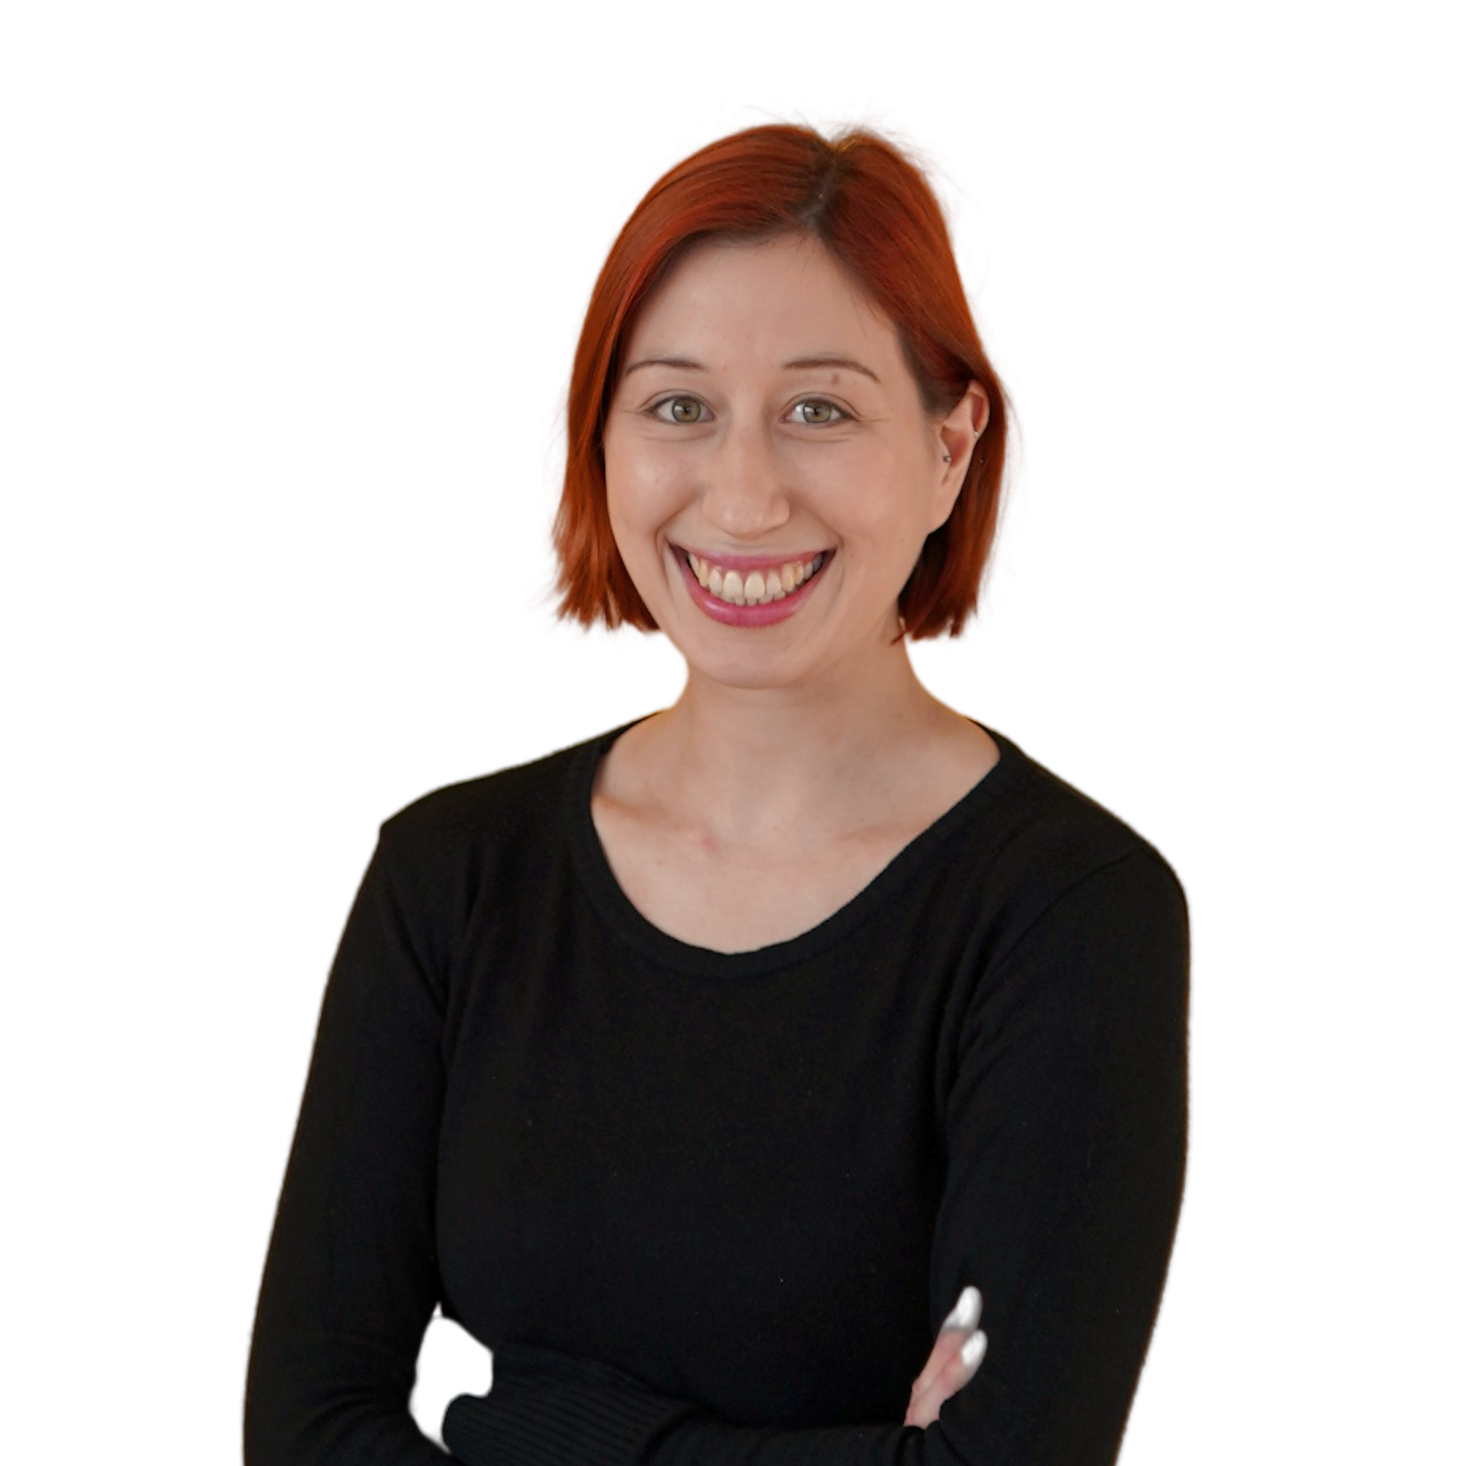
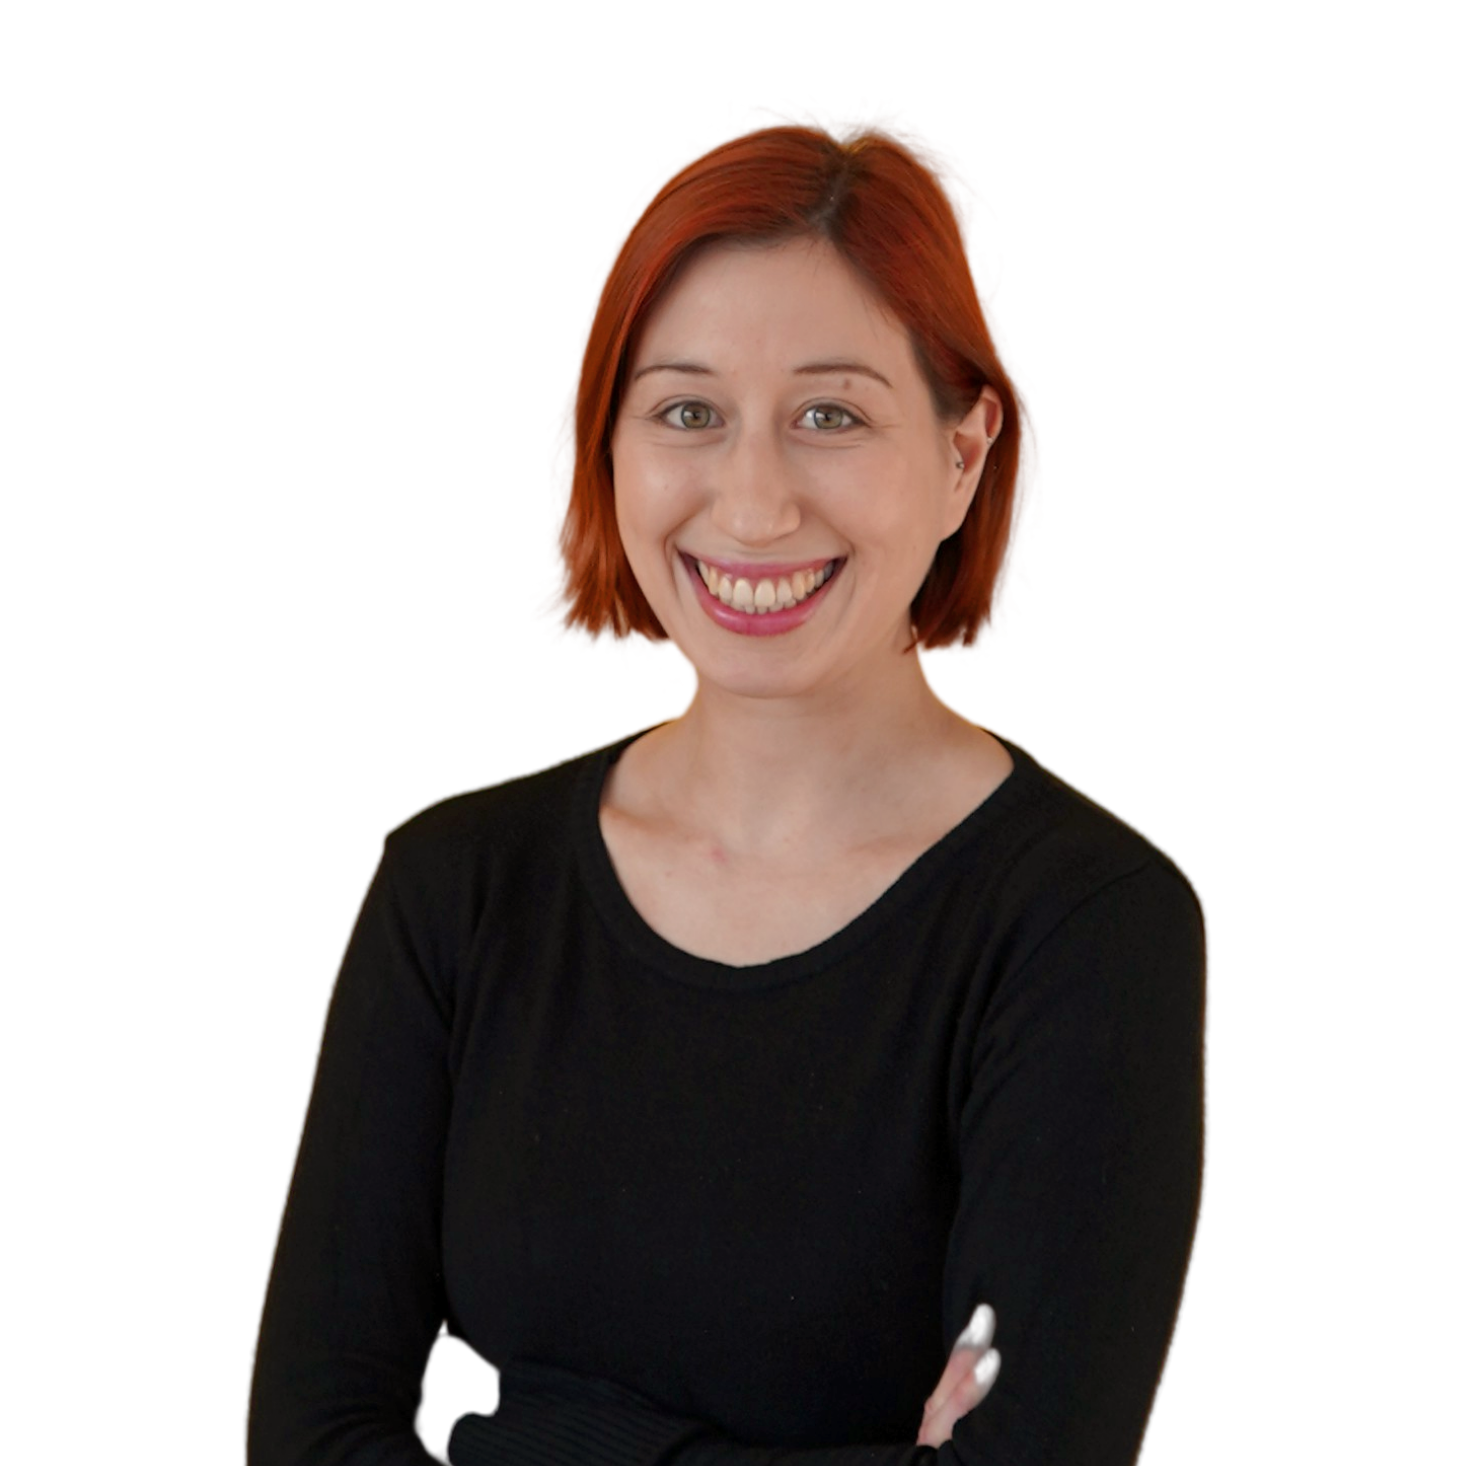
Change layout of profile page / responsive for all devices

diff --git a/css/style.css b/css/style.css
@@ -61,34 +61,100 @@ body {
     font-weight: 400;
     font-size: 1.8rem; }
 
+.profile-page-body {
+  margin: 0;
+  min-height: 100vh;
+  background-color: orange; }
+
 .profile {
   background-color: #d9ecef;
   display: flex;
   flex-direction: column;
-  justify-content: center;
-  padding: 2rem 4rem;
-  margin-top: 10rem; }
-  .profile__image {
+  min-height: 100vh; }
+  .profile__wrapper {
+    flex: 1 1; }
+  .profile__header {
+    margin-top: 20px;
     display: flex;
-    justify-content: center; }
+    flex-direction: row;
+    justify-content: flex-end; }
+    .profile__header a {
+      text-decoration: none;
+      color: #f18613;
+      font-weight: 400;
+      font-size: 1.8rem;
+      margin-right: 2rem; }
+  .profile__content {
+    position: absolute;
+    left: 50%;
+    top: 45%;
+    transform: translate(-50%, -50%);
+    display: flex;
+    justify-content: space-evenly;
+    align-items: center;
+    border-radius: 10px;
+    color: rgba(255, 255, 255, 0.8);
+    height: 60vh;
+    width: 60vw; }
+  .profile__picture {
+    justify-self: center;
+    margin-right: 20px; }
   .profile__img {
-    width: 15rem;
     border-radius: 50%;
-    display: block;
-    background-color: #fff; }
+    height: 220px;
+    width: 220px;
+    box-shadow: 0 0.2rem 4rem black; }
   .profile__description {
+    width: 400px;
+    margin-left: 20px;
+    font-size: 0.9rem;
+    line-height: 1.5rem;
+    text-align: left; }
+  .profile__footer {
+    color: #a3b18a;
+    font-size: 20px;
+    position: relative;
+    bottom: 0;
+    width: 100%;
+    padding-bottom: 5px; }
+  .profile__footer--links {
+    display: flex;
+    justify-content: center;
+    font-size: 3.5rem; }
+    .profile__footer--links a {
+      margin: 0.5rem; }
+
+@media only screen and (max-width: 770px) {
+  .profile__header {
+    margin-right: 0;
+    position: relative;
+    right: auto;
+    align-content: center; } }
+
+@media only screen and (max-width: 770px) {
+  .profile__header--link {
+    margin-left: 15px;
+    margin-right: 15px; } }
+
+@media only screen and (max-width: 770px) {
+  .profile__content {
     display: flex;
     flex-direction: column;
-    align-items: center;
-    padding: 2rem 10rem; }
-  .profile__links {
-    margin-top: 2rem;
-    font-size: 3.5rem;
-    display: flex;
-    flex-direction: row; }
+    top: 50%; } }
 
-x .skills {
-  background-color: orange; }
+@media only screen and (max-width: 770px) {
+  .profile__picture {
+    margin-right: 0; } }
+
+@media only screen and (max-width: 770px) {
+  .profile__img {
+    height: 180px;
+    width: 180px; } }
+
+@media only screen and (max-width: 770px) {
+  .profile__description {
+    font-size: 0.8rem;
+    width: 80vw; } }
 
 .footer {
   background-color: #d9ecef;

diff --git a/sass/_profile.scss b/sass/_profile.scss
@@ -1,43 +1,132 @@
+.profile-page-body {
+  margin: 0;
+  min-height: 100vh;
+  background-color: orange;
+}
+
 .profile {
   background-color: $color-primary;
-
   display: flex;
   flex-direction: column;
-  justify-content: center;
-  padding: 2rem 4rem;
-  margin-top: 10rem;
+  min-height: 100vh;
 
-  // display: grid;
-  // justify-content: center;
-  // align-items: center;
+  &__wrapper {
+    flex: 1 1;
+  }
 
-  &__image {
+  &__header {
+    margin-top: 20px;
+    display: flex;
+    flex-direction: row;
+    justify-content: flex-end;
+
+    a {
+      text-decoration: none;
+      color: $color-secondary;
+      font-weight: 400;
+      font-size: 1.8rem;
+      margin-right: 2rem;
+    }
+  }
+
+  &__content {
+    position: absolute;
+    left: 50%;
+    top: 45%;
+
+    transform: translate(-50%, -50%);
+
     display: flex;
 
-    justify-content: center;
+    justify-content: space-evenly;
+
+    align-items: center;
+    border-radius: 10px;
+    color: hsla(0, 0%, 100%, 0.8);
+    height: 60vh;
+    width: 60vw;
+  }
+
+  &__picture {
+    justify-self: center;
+    margin-right: 20px;
   }
 
   &__img {
-    width: 15rem;
     border-radius: 50%;
-    display: block;
-    background-color: #fff;
+    height: 220px;
+    width: 220px;
+    box-shadow: 0 0.2rem 4rem black;
   }
 
   &__description {
-    display: flex;
-    flex-direction: column;
-    align-items: center;
-    padding: 2rem 10rem;
+    width: 400px;
+    margin-left: 20px;
+    font-size: 0.9rem;
+    line-height: 1.5rem;
+    text-align: left;
   }
 
-  &__links {
-    margin-top: 2rem;
-    font-size: 3.5rem;
+  &__footer {
+    color: #a3b18a;
+    font-size: 20px;
+    position: relative;
+    bottom: 0;
+    width: 100%;
+    padding-bottom: 5px;
+  }
+
+  &__footer--links {
     display: flex;
-    flex-direction: row;
+    justify-content: center;
+    font-size: 3.5rem;
+
+    a {
+      margin: 0.5rem;
+    }
   }
 }
-x .skills {
-  background-color: orange;
+
+@media only screen and (max-width: 770px) {
+  .profile__header {
+    margin-right: 0;
+    position: relative;
+    right: auto;
+    align-content: center;
+  }
+}
+
+@media only screen and (max-width: 770px) {
+  .profile__header--link {
+    margin-left: 15px;
+    margin-right: 15px;
+  }
+}
+
+@media only screen and (max-width: 770px) {
+  .profile__content {
+    display: flex;
+    flex-direction: column;
+    top: 50%;
+  }
+}
+
+@media only screen and (max-width: 770px) {
+  .profile__picture {
+    margin-right: 0;
+  }
+}
+
+@media only screen and (max-width: 770px) {
+  .profile__img {
+    height: 180px;
+    width: 180px;
+  }
+}
+
+@media only screen and (max-width: 770px) {
+  .profile__description {
+    font-size: 0.8rem;
+    width: 80vw;
+  }
 }

diff --git a/index.html b/index.html
@@ -17,30 +17,38 @@
       crossorigin="anonymous"
     ></script>
   </head>
-  <body class="">
-    <header class="profile-header">
-      <a href="projects.html" class="header__item">Projects</a>
-    </header>
+  <body class="profile-page-body">
     <div class="profile">
-      <div class="profile__image">
-        <img src="img/profile.png" alt="Headshot" class="profile__img" />
+      <div class="profile__wrapper">
+        <div class="profile__header">
+          <div class="profile__header--link">
+            <a href="projects.html">Projects</a>
+          </div>
+        </div>
+
+        <div class="profile__content">
+          <div class="profile__picture">
+            <img class="profile__img" src="img/profile.png" alt="" />
+          </div>
+          <div class="profile__description">
+            <h2>Welcome to my portfolio!</h2>
+            <p class="paragraph">
+              Welcome to my portfolio! My name is Mareike and I'm an aspiring
+              web developer! I recently graduated from a coding bootcamp, where
+              I discovered my passion for frontend development. I'm fascinated
+              by the continuous need to problem-solve and learning new ways of
+              achieving things, and would love to contribute and collaborate
+              with other developers for many more future projects to come 🙂
+            </p>
+          </div>
+        </div>
       </div>
 
-      <div class="profile__description">
-        <p class="paragraph">
-          Welcome to my portfolio! My name is Mareike and I'm an aspiring web
-          developer! <br />
-          I recently graduated from a coding bootcamp, where I discovered my
-          passion for frontend development.<br />
-          I'm fascinated by the continuous need to problem-solve and learning
-          new ways of achieving things, and would love to contribute and
-          collaborate with other developers for many more future projects to
-          come 🙂 <br />
-        </p>
-         <div class="profile__links">
-        <a target="_blank" href="https://github.com/MareikeHeuer"><i class="fab fa-github-square"></i></a>
+      <div class="profile__footer">
+        <div class="profile__footer--links">
+         <a target="_blank" href="https://github.com/MareikeHeuer"><i class="fab fa-github-square"></i></a>
         <a target="_blank" href="https://www.linkedin.com/in/mareike-heuer/"><i class="fab fa-linkedin"></i></i></a>
-      </div>
+        </div>
       </div>
     </div>
   </body>
